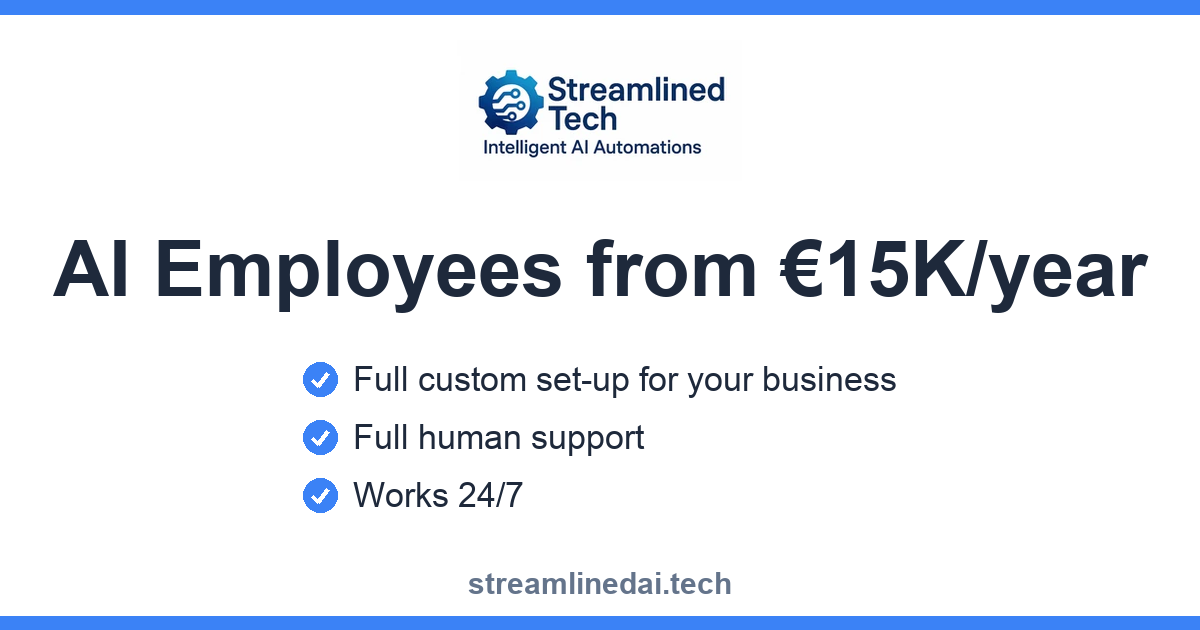
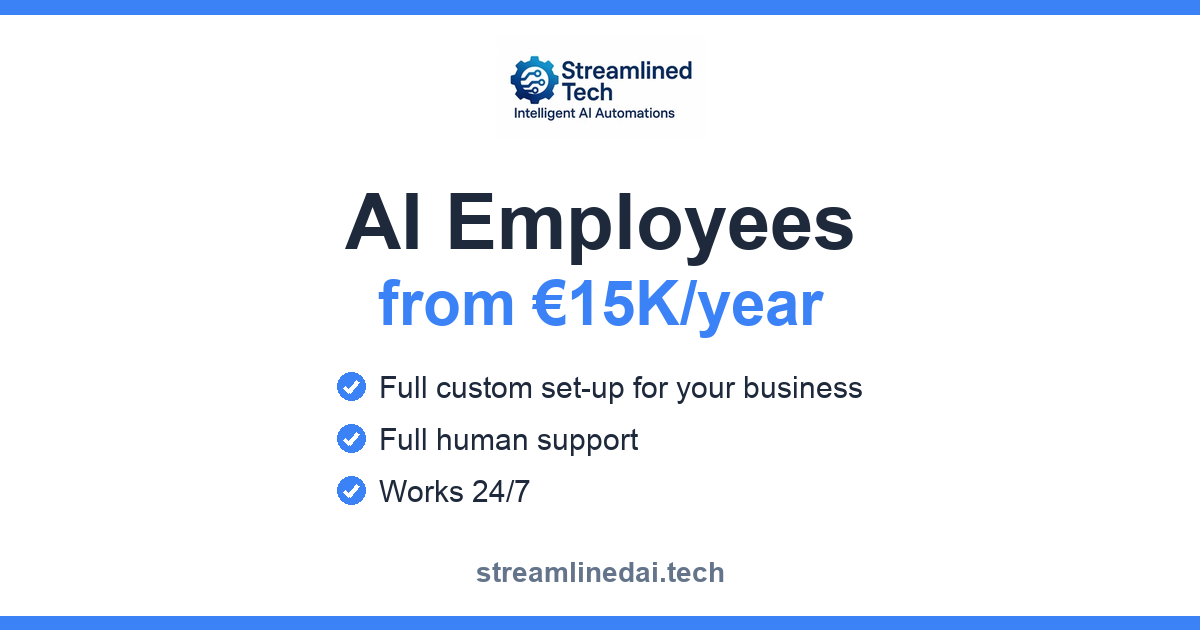
fix: square-safe ad card and Ireland-specific /ai-employees
The ChatGPT chat-card thumbnail crops the OG image to a centre 1:1
square, which clipped the wide card's headline. The card is
regenerated with every element inside the centre 630px, stacked
headline, so the square crop shows the full offer while wide link
previews still work.

The landing page is now explicitly Irish: eyebrow line, title and
description carry Ireland, the price block says priced for businesses
in Ireland, and the JSON-LD and static crawl mirror match.

diff --git a/client/src/lib/seo-routes.ts b/client/src/lib/seo-routes.ts
@@ -118,9 +118,9 @@ export const ROUTE_SEO = {
     // match the ad's message, not to rank, and the trend term stays
     // quarantined here.
     path: "/ai-employees",
-    title: "AI Employees from €15K/year | Streamlined Tech",
+    title: "AI Employees from €15K/year, Ireland | Streamlined Tech",
     description:
-      "AI employees set up around how your business already runs, from €15K a year with human support. Full custom set-up for your business. Works 24/7.",
+      "AI employees for Irish businesses, from €15K a year with human support. Full custom set-up around how you already run. Works 24/7.",
     canonical: "/ai-employees",
     noindex: true,
     image: "/images/og-card-ai-employees.png",
@@ -134,7 +134,7 @@ export const ROUTE_SEO = {
       serviceType: "AI employee set-up and support",
       url: "https://streamlinedai.tech/ai-employees",
       description:
-        "An AI employee is a system Streamlined Tech builds that does one named job in a business and keeps doing it. Full custom set-up for the business, human support, and the system runs around the clock.",
+        "An AI employee is a system Streamlined Tech builds that does one named job in a business and keeps doing it. Full custom set-up for the business, human support, and the system runs around the clock. Offered to businesses in Ireland.",
       provider: {
         "@type": "ProfessionalService",
         name: "Streamlined Tech",
@@ -152,6 +152,7 @@ export const ROUTE_SEO = {
     // Mirror of the rendered page copy for crawlers that do not run JS.
     staticHtml: `
       <main class="container mx-auto px-6 py-16" style="max-width:48rem">
+        <p class="text-sm font-semibold mb-2">For businesses in Ireland</p>
         <h1 class="text-4xl font-display font-bold mb-6">AI Employees from €15K a year</h1>
         <p class="mb-6">An AI employee here is a system we build that does one named job in your business and keeps doing it. Answering enquiries and writing bookings into the diary. Chasing quotes and invoices. Tracking jobs and writing up the reports. Full custom set-up for your business, by us, not from a template.</p>
         <h2 class="text-xl font-display font-bold mb-2">Works 24/7</h2>
@@ -159,7 +160,7 @@ export const ROUTE_SEO = {
         <h2 class="text-xl font-display font-bold mb-2">Full human support</h2>
         <p class="mb-6">A real person built it and a real person looks after it. When something needs changing, you contact me and it gets changed. Support hours and response times are agreed in writing as part of the set-up.</p>
         <h2 class="text-xl font-display font-bold mb-2">From €15K a year</h2>
-        <p class="mb-6">That covers the full custom set-up of one AI employee doing one defined job, and the support to keep it running for the year. The exact figure is agreed in writing before anything starts.</p>
+        <p class="mb-6">That covers the full custom set-up of one AI employee doing one defined job, and the support to keep it running for the year. Priced for businesses in Ireland, and the exact figure is agreed in writing before anything starts.</p>
         <p class="mb-6">Get a quote on this page, book a call, or email peter@streamlinedai.tech. Streamlined Tech is Pete Harris, based in Galway, Ireland, and also builds and runs AutoListing.io and Rangplan.ie.</p>
       </main>`,
   },

diff --git a/client/src/pages/ai-employees.tsx b/client/src/pages/ai-employees.tsx
@@ -88,6 +88,9 @@ export default function AiEmployees() {
       <section className="relative overflow-hidden bg-gradient-to-br from-slate-900 via-slate-800 to-slate-900">
         <div className="relative z-10 container mx-auto px-6 py-16 md:py-24">
           <div className="max-w-3xl">
+            <p className="text-sm font-semibold tracking-wide text-amber-400 mb-4 uppercase">
+              For businesses in Ireland
+            </p>
             <h1 className="text-4xl md:text-5xl lg:text-6xl font-display font-bold text-white mb-6 leading-tight" data-testid="text-hero-headline">
               AI Employees from €15K a year
             </h1>
@@ -128,7 +131,7 @@ export default function AiEmployees() {
             <div className="bg-white p-7 rounded-lg border border-border">
               <h2 className="text-xl font-display font-bold mb-3">From €15K a year</h2>
               <p className="text-muted-foreground leading-relaxed">
-                That covers the full custom set-up of one AI employee doing one defined job, and the support to keep it running for the year. The exact figure is agreed in writing before anything starts.
+                That covers the full custom set-up of one AI employee doing one defined job, and the support to keep it running for the year. Priced for businesses in Ireland, and the exact figure is agreed in writing before anything starts.
               </p>
             </div>
           </div>
